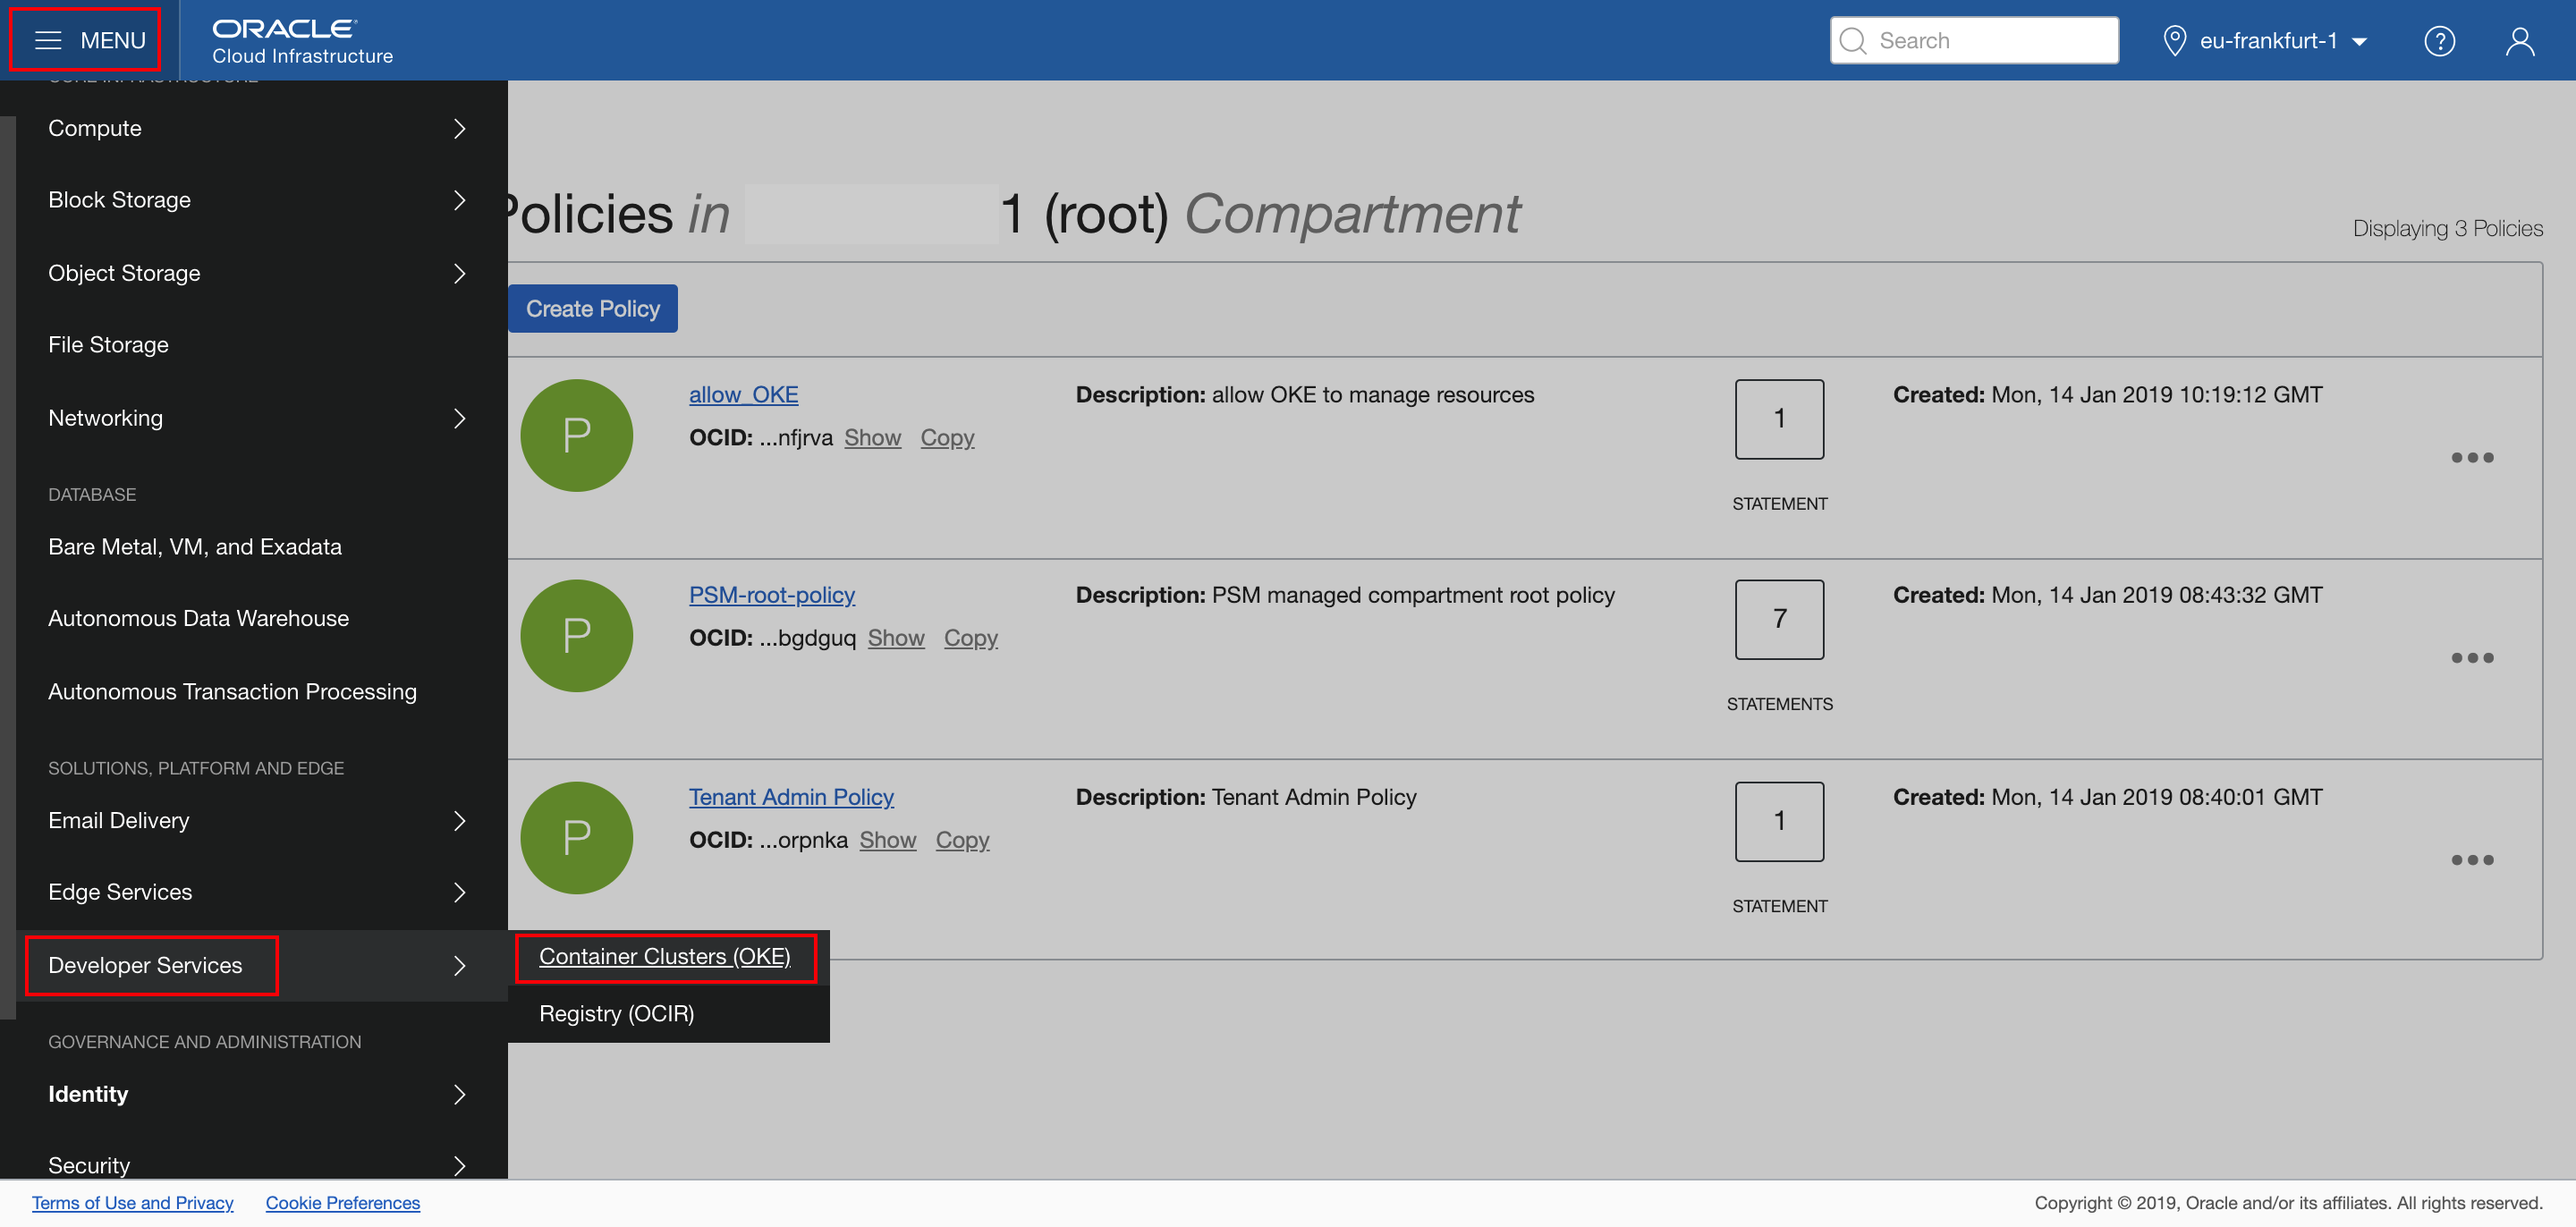
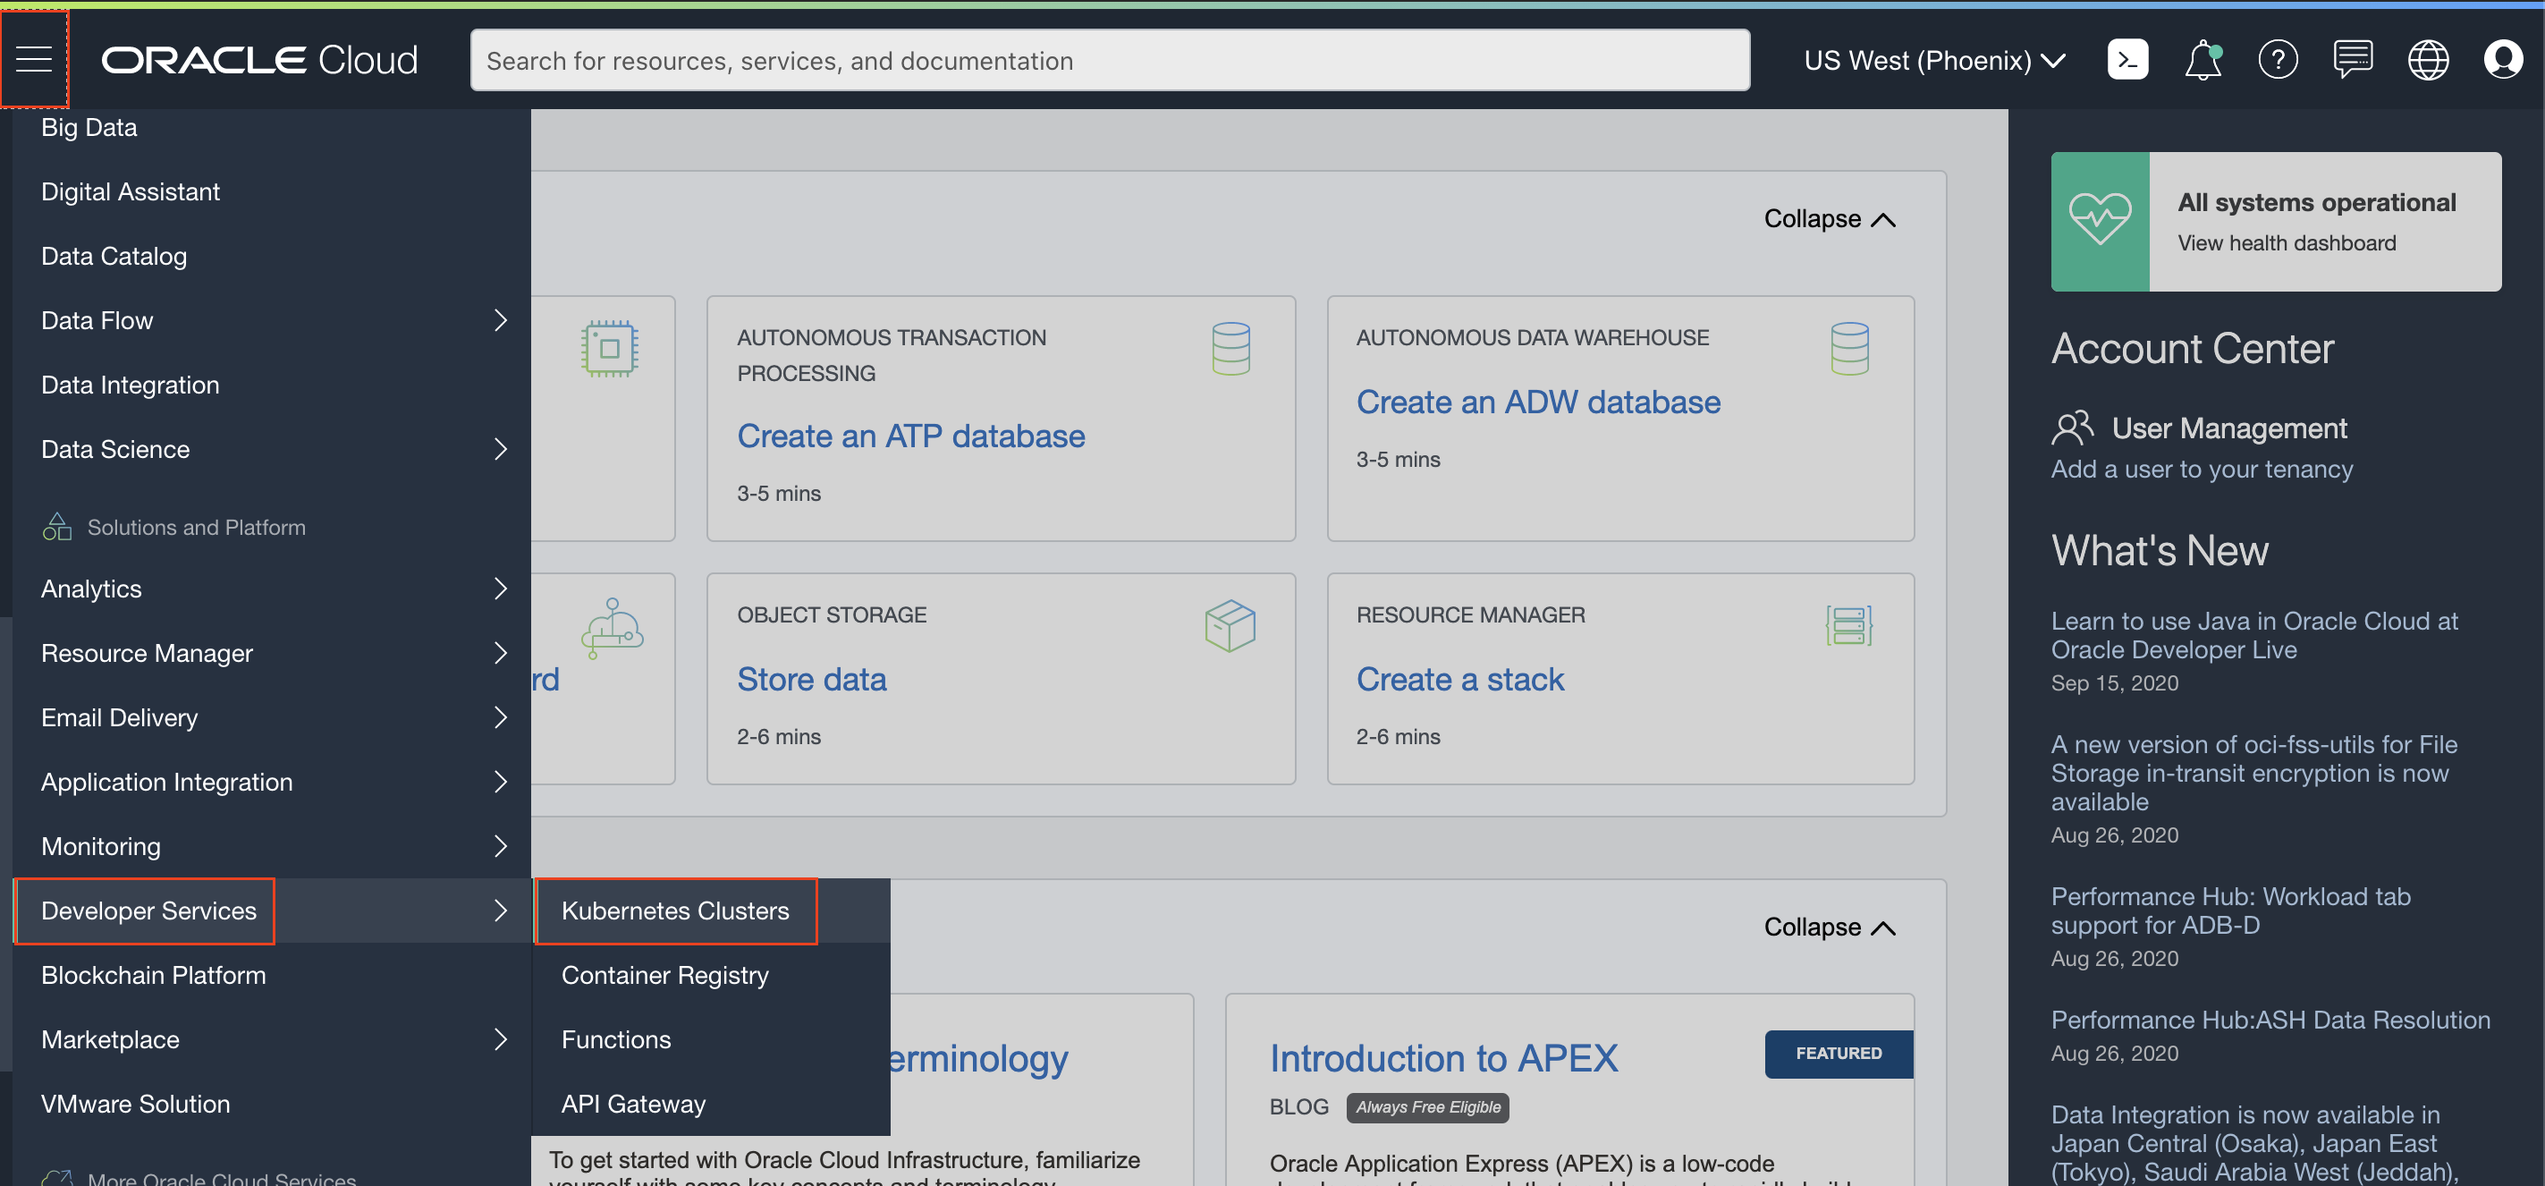
tested for WKO 3.0.0 OCI screenshot changes

diff --git a/tutorials/setup.oke.ocishell.md b/tutorials/setup.oke.ocishell.md
@@ -28,29 +28,13 @@ This tutorial shows you the way the *Quick Start* feature creates and configures
 
 For more information about OKE and custom cluster deployment, see the [Oracle Container Engine](https://docs.cloud.oracle.com/iaas/Content/ContEng/Concepts/contengoverview.htm) documentation.
 
-## **STEP 1**: Open the OCI console
-
-Sign in using the Cloud Services link you got in an email during the registration process. If this is your first time signing in, you have to change the generated first-time password.
-
-![](images/oke/001.cloud.link.email.png)
-
-Use the user name and password distributed by the instructor. Click **Sign In**.
-
-![](images/oke/002.login.png)
-
-Select the menu icon in the top left corner and then select **Compute**.
-
-![](images/oke/003.compute.console.png)
-
-That opens the OCI console.
-
-## **STEP 2**: Create a policy
+## **STEP 1**: Create a policy
 
 A service policy allows OKE to create resources in your tenancy, such as compute. An OKE resource policy or policies let you specify which groups in your tenancy can perform certain tasks with the OKE API.
 
 Optionally, create more resource policies if you want to control which groups can access different parts of the OKE service.
 
-Open the navigation menu. Under **Identity**, select **Policies**.
+Open the OCI Console and click the navigation menu. Under **Identity**, select **Policies**.
 
 ![](images/oke/004.oci.console.png)
 
@@ -70,7 +54,7 @@ Click **Create**.
 
 ![](images/oke/006.create.oke.policy.png)
 
-## **STEP 3**: Create an OKE cluster ####
+## **STEP 2**: Create an OKE cluster ####
 
 The *Quick Create* feature uses the default settings to create a *quick cluster* with new network resources as required. This approach is the fastest way to create a new cluster. If you accept all the default values, you can create a new cluster in just a few clicks. New network resources for the cluster are created automatically, along with a node pool and three worker nodes.
 
@@ -102,13 +86,11 @@ Specify the following configuration details on the Cluster Creation page:
 
 Click **Next** to review the details you entered for the new cluster.
 
-![](images/oke/009.quick.details.ocishell.1.png)
-![](images/oke/009.quick.details.ocishell.2.png)
+![](images/oke/009.quick.details.ocishell.png)
 
 On the *Review* page, click **Submit** to create the new network resources and the new cluster.
 
-![](images/oke/009.quick.review.ocishell.1.png)
-![](images/oke/009.quick.review.ocishell.2.png)
+![](images/oke/009.quick.review.ocishell.png)
 
 You see the network resources being created for you.
 
@@ -116,65 +98,47 @@ You see the network resources being created for you.
 
 Click **Close** and the new cluster is shown on the *Cluster Details* page. When it has been created, the new cluster has a status of *Active*.
 
-## **STEP 4**: Open OCI Cloud Shell
+## **STEP 3**: Configure `kubectl` (Kubernetes Cluster CLI)
 
 Oracle Cloud Infrastructure (OCI) Cloud Shell is a web browser-based terminal, accessible from the Oracle Cloud Console. Cloud Shell provides access to a Linux shell, with a pre-authenticated Oracle Cloud Infrastructure CLI and other useful tools (*Git, kubectl, helm, OCI CLI*) to complete the operator tutorials. Cloud Shell is accessible from the Console. Your Cloud Shell will appear in the Oracle Cloud Console as a persistent frame of the Console, and will stay active as you navigate to different pages of the Console.
 
-Click the Cloud Shell icon in the Console header (top right area in the browser).
+You will use Cloud Shell to complete this workshop.
 
-![](images/oke/020.ocishell.start.png)
+In order for `kubectl` to find and access a Kubernetes cluster, it needs a `kubeconfig` file. This will be generated using the OCI CLI which is pre-authenticated, so there’s no setup to do before you can start using it.
 
-Wait a few seconds for the Cloud Shell to appear.
+Click **Access Kubeconfig** on your cluster detail page. (If you moved away from that page, then open the navigation menu and under **Developer Services**, select **Clusters**. Select your cluster and go the detail page.)
 
-![](images/oke/021.ocishell.started.png)
+![](images/oke/022.ocishell.access.config.2.png)
 
-You can minimize and restore the terminal size at any time.
+A dialog appears which offers to open Cloud Shell and contains the customized OCI command that you need to execute, to create a Kubernetes configuration file.
 
-## **STEP 5**: Configure `kubectl`
+Leave the default *Cloud Shell Access* and first select the **Copy** link to copy the `oci ce...` command to Cloud Shell, then close the configuration dialog before you paste the command into the terminal.
 
-Your Cloud Shell comes with the OCI CLI pre-authenticated, so there’s no setup to do before you can start using it.
+![](images/oke/023.ocishell.config.dialog.copy.png)
 
-To complete the `kubectl` configuration, click **Access Kubeconfig** on your cluster detail page. (If you moved away from that page, then open the navigation menu and under **Developer Services**, select **Clusters**. Select your cluster and go the detail page.
+Now click the **Launch Cloud Shell** to open the built in console.
 
-![](images/oke/022.ocishell.access.config.png)
+![](images/oke/023.ocishell.config.dialog.launch.shell.png)
 
-A dialog appears which contains the customized OCI command that you need to execute, to create a Kubernetes configuration file.
+Copy the command from the clipboard (Ctrl+V or right click and copy) into the Cloud Shell and execute.
 
-Select the **Copy** link to copy the `oci ce...` command to Cloud Shell, then close the configuration dialog before you paste the command into the terminal.
-
-![](images/oke/023.ocishell.config.dialog.png)
 For example, the command looks like the following:
 ```bash
-$ oci ce cluster create-kubeconfig --cluster-id ocid1.cluster.oc1.THIS_IS_EXAMPLE_DONT_COPY_PASTE_FROM_HERE --file $HOME/.kube/config --region us-phoenix-1 --token-version 2.0.0
-New config written to the Kubeconfig file /home/peter_nagy/.kube/config
+$ oci ce cluster create-kubeconfig --cluster-id ocid1.cluster.oc1.phx.aaaaaaaaaezwen..................zjwgm2tqnjvgc2dey3emnsd --file $HOME/.kube/config --region us-phoenix-1 --token-version 2.0.0
+Existing Kubeconfig file found at /home/peter_nagy/.kube/config and new config merged into it
 ```
 Now check that `kubectl` is working, for example, using the `get node` command:
 ```bash
 $ kubectl get node
 NAME        STATUS   ROLES   AGE    VERSION
-10.0.10.2   Ready    node    117m   v1.15.7
-10.0.10.3   Ready    node    116m   v1.15.7
-10.0.10.4   Ready    node    117m   v1.15.7
+10.0.10.2   Ready    node    56m   v1.16.8
+10.0.10.3   Ready    node    56m   v1.16.8
+10.0.10.4   Ready    node    56m   v1.16.8
 ```
 If you see the node's information, then the configuration was successful.
 
 ![](images/oke/024.ocishell.config.complete.png)
 
-## **STEP 6**: Set up the RBAC policy for the OKE cluster
+You can always minimize and restore the terminal size at any time using the buttons on the top right corner of the Cloud Shell.
 
-In order to have permission to access the Kubernetes cluster, you need to authorize your OCI account as a cluster-admin on the OCI Container Engine for Kubernetes cluster. This will require your user OCID.
-
-In the Console, select your OCI user name and select User Settings. On the user details page, you will find the user OCID. Select Copy and paste it temporarily in a text editor.
-
-![](images/oke/010.user.ocid.png)
-
-Then execute the role binding command using your(!) user OCID:
-```bash
-kubectl create clusterrolebinding my-cluster-admin-binding --clusterrole=cluster-admin --user=<YOUR_USER_OCID>
-```
-For example:
-```bash
-$ kubectl create clusterrolebinding my-cluster-admin-binding --clusterrole=cluster-admin --user=ocid1.user.oc1..AGAIN_THIS_IS_EXAMPLE
-clusterrolebinding.rbac.authorization.k8s.io/my-cluster-admin-binding created
-```
-Congratulation, now your OCI OKE environment is ready to deploy your WebLogic domain.
+![](images/oke/025.ocishell.minimize.restore.png)

diff --git a/tutorials/install.operator.ocishell.md b/tutorials/install.operator.ocishell.md
@@ -9,18 +9,18 @@ This lab walks you through the steps to prepare OCI Cloud shell (client) environ
 ## **STEP 1**: Clone the operator repository to a Cloud Shell instance
 First, clone the operator git repository to OCI Cloud Shell.
 ```bash
-$ git clone https://github.com/oracle/weblogic-kubernetes-operator.git -b v2.5.0
+$ git clone https://github.com/oracle/weblogic-kubernetes-operator.git -b v3.0.0
 ```
 The output should be similar to the following:
 ```bash
 Cloning into 'weblogic-kubernetes-operator'...
-remote: Enumerating objects: 1568, done.
-remote: Counting objects: 100% (1568/1568), done.
-remote: Compressing objects: 100% (641/641), done.
-remote: Total 123827 (delta 748), reused 1284 (delta 567), pack-reused 122259
-Receiving objects: 100% (123827/123827), 86.55 MiB | 28.25 MiB/s, done.
-Resolving deltas: 100% (74546/74546), done.
-Note: checking out 'b9d4b934ebd90df9726dc4051ece82491bd726c0'.
+remote: Enumerating objects: 606, done.
+remote: Counting objects: 100% (606/606), done.
+remote: Compressing objects: 100% (315/315), done.
+remote: Total 157642 (delta 271), reused 429 (delta 168), pack-reused 157036
+Receiving objects: 100% (157642/157642), 111.14 MiB | 13.26 MiB/s, done.
+Resolving deltas: 100% (92756/92756), done.
+Note: checking out 'a14b76777ccd1e039b64ea2992d8a22da05f8e3d'.
 
 You are in 'detached HEAD' state. You can look around, make experimental
 changes and commit them, and you can discard any commits you make in this
@@ -31,7 +31,7 @@ do so (now or later) by using -b with the checkout command again. Example:
 
   git checkout -b new_branch_name
 
-Checking out files: 100% (8396/8396), done.
+Checking out files: 100% (10812/10812), done.
 ```
 ## **STEP 2**: Prepare the Kubernetes environment
 Kubernetes distinguishes between the concept of a user account and a service account for a number of reasons. The main reason is that user accounts are for humans while service accounts are for processes, which run in pods. The operator also requires service accounts.  If a service account is not specified, it defaults to `default` (for example, the namespace's default service account). If you want to use a different service account, then you must create the operator's namespace and the service account before installing the operator Helm chart.
@@ -75,14 +75,14 @@ Execute the following `helm install`:
 helm install sample-weblogic-operator \
   kubernetes/charts/weblogic-operator \
   --namespace sample-weblogic-operator-ns \
-  --set image=oracle/weblogic-kubernetes-operator:2.5.0 \
+  --set image=oracle/weblogic-kubernetes-operator:3.0.0 \
   --set serviceAccount=sample-weblogic-operator-sa \
   --set "domainNamespaces={}"
 ```
 The output will be similar to the following:
 ```bash
 NAME: sample-weblogic-operator
-LAST DEPLOYED: Fri Mar  6 18:24:29 2020
+LAST DEPLOYED: Thu Sep  3 13:48:24 2020
 NAMESPACE: sample-weblogic-operator-ns
 STATUS: deployed
 REVISION: 1
@@ -91,14 +91,14 @@ TEST SUITE: None
 Check the operator pod:
 ```bash
 $ kubectl get po -n sample-weblogic-operator-ns
-NAME                                READY   STATUS    RESTARTS   AGE
-weblogic-operator-86ff6fccc-gh79p   1/1     Running   0          69s
+NAME                                 READY   STATUS    RESTARTS   AGE
+weblogic-operator-67d66b4576-jkp9g   1/1     Running   0          41s
 ```
 Check the operator Helm chart:
 ```bash
 $ helm list -n sample-weblogic-operator-ns
 NAME                            NAMESPACE                       REVISION        UPDATED                                 STATUS          CHART                   APP VERSION
-sample-weblogic-operator        sample-weblogic-operator-ns     1               2020-03-06 18:24:29.312983566 +0000 UTC deployed        weblogic-operator-2.5.0
+sample-weblogic-operator        sample-weblogic-operator-ns     1               2020-09-03 13:48:24.187689635 +0000 UTC deployed        weblogic-operator-3.0.0
 ```
 
 The WebLogic Server Kubernetes Operator has been installed. You can continue with next tutorial module.

diff --git a/tutorials/install.traefik.ocishell.md b/tutorials/install.traefik.ocishell.md
@@ -53,23 +53,23 @@ NOTES:
 The Traefik installation is basically done. Verify the Traefik (load balancer) services:
 ```bash
 kubectl get service -n traefik
-NAME                         TYPE           CLUSTER-IP     EXTERNAL-IP      PORT(S)                      AGE
-traefik-operator             LoadBalancer   10.96.227.82   158.101.24.114   443:30299/TCP,80:31457/TCP   2m27s
-traefik-operator-dashboard   ClusterIP      10.96.53.132   <none>           80/TCP                       2m27s
+NAME                         TYPE           CLUSTER-IP     EXTERNAL-IP       PORT(S)                      AGE
+traefik-operator             LoadBalancer   10.96.50.120   129.146.148.215   443:31388/TCP,80:31282/TCP   48s
+traefik-operator-dashboard   ClusterIP      10.96.206.52   <none>            80/TCP                       48s
 ```
 Please note the EXTERNAL-IP of the *traefik-operator* service. This is the public IP address of the load balancer that you will use to access the WebLogic Server Administration Console and the sample application.
 
 To print only the public IP address, execute this command:
 ```bash
-$ kubectl describe svc traefik-operator --namespace traefik | grep Ingress | awk '{print $3}'
-158.101.24.114
+kubectl describe svc traefik-operator --namespace traefik | grep Ingress | awk '{print $3}'
+129.146.148.215
 ```
 
 Verify the `helm` charts:
 ```bash
-$ helm list -n traefik
+helm list -n traefik
 NAME                    NAMESPACE       REVISION        UPDATED                                 STATUS          CHART           APP VERSION
-traefik-operator        traefik         1               2020-03-06 20:31:53.069061578 +0000 UTC deployed        traefik-1.86.2  1.7.20  
+traefik-operator        traefik         1               2020-09-03 13:50:09.199419556 +0000 UTC deployed        traefik-1.87.2  1.7.24
 ```
 You can also access the Traefik dashboard using `curl`. Use the `EXTERNAL-IP` address from the result above:
 
@@ -77,5 +77,5 @@ You can also access the Traefik dashboard using `curl`. Use the `EXTERNAL-IP` ad
 
 For example:
 
-    $ curl -H 'host: traefik.example.com' http://158.101.24.114
+    curl -H 'host: traefik.example.com' http://129.146.148.215
     <a href="/dashboard/">Found</a>.

diff --git a/tutorials/deploy.weblogic_short.ocishell.md b/tutorials/deploy.weblogic_short.ocishell.md
@@ -53,9 +53,9 @@ To deploy WebLogic domain, you need to create a domain resource definition which
 
 We provided for you a `domain.yaml` file that contains a YAML representation of the custom resource object. Please copy it locally:
 ```bash
-curl -LSs https://raw.githubusercontent.com/nagypeter/weblogic-operator-tutorial/master/k8s/domain_short.yaml >~/domain.yaml
+curl -LSs https://raw.githubusercontent.com/nagypeter/weblogic-operator-tutorial/livelabs/k8s/domain_short.v8.yaml >~/domain.yaml
 ```
-Review it in your favorite editor or a [browser](../domain.yaml).
+Review it in your favorite editor or a [browser](https://raw.githubusercontent.com/nagypeter/weblogic-operator-tutorial/livelabs/k8s/domain_short.v8.yaml).
 
 Create the domain custom resource object with the following command:
 ```bash

diff --git a/tutorials/scale.weblogic.ocishell.md b/tutorials/scale.weblogic.ocishell.md
@@ -24,7 +24,7 @@ clusters:
 ```
 Modify `replicas` to 3 and save the changes. You can use the `vi` editor for example:
 ```bash
-vi ~/domain.yaml`
+vi ~/domain.yaml
 ```
 Apply the changes using `kubectl`:
 ```bash
